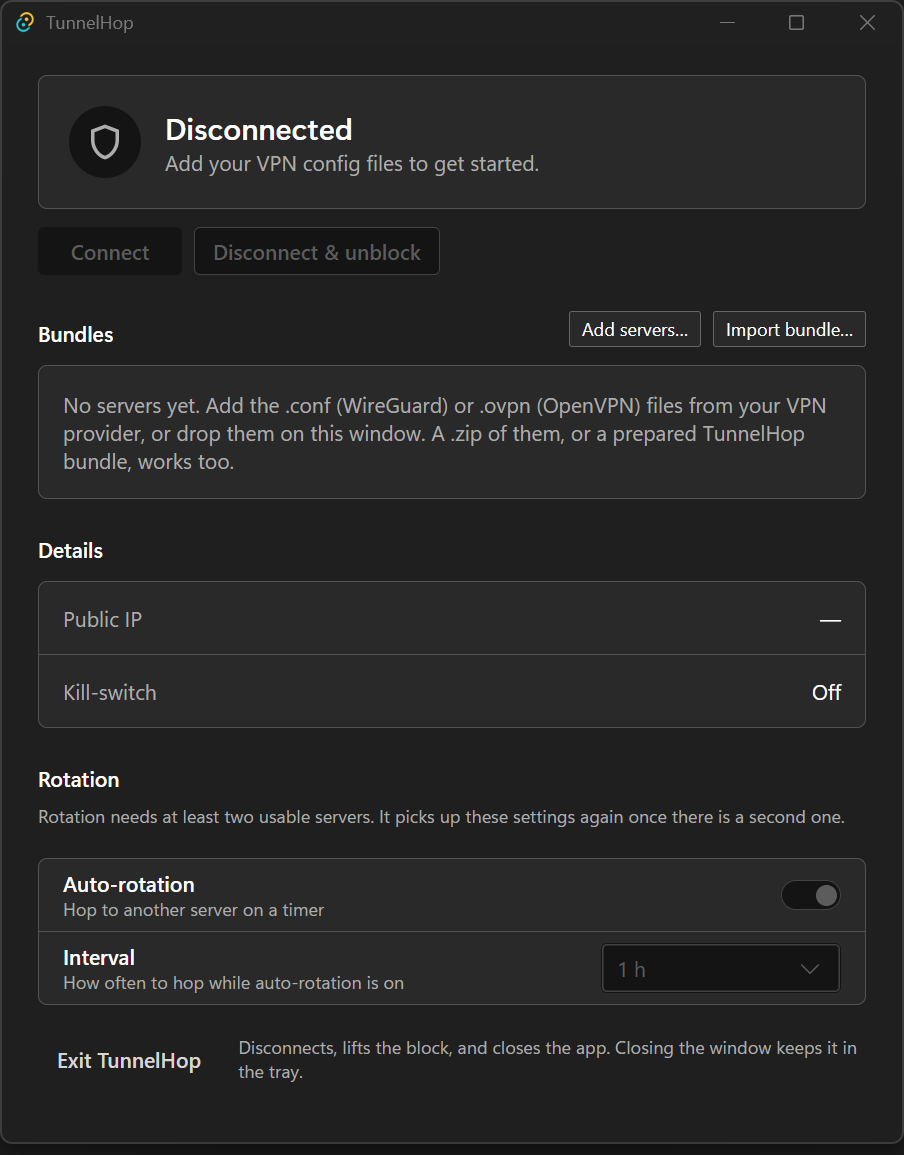
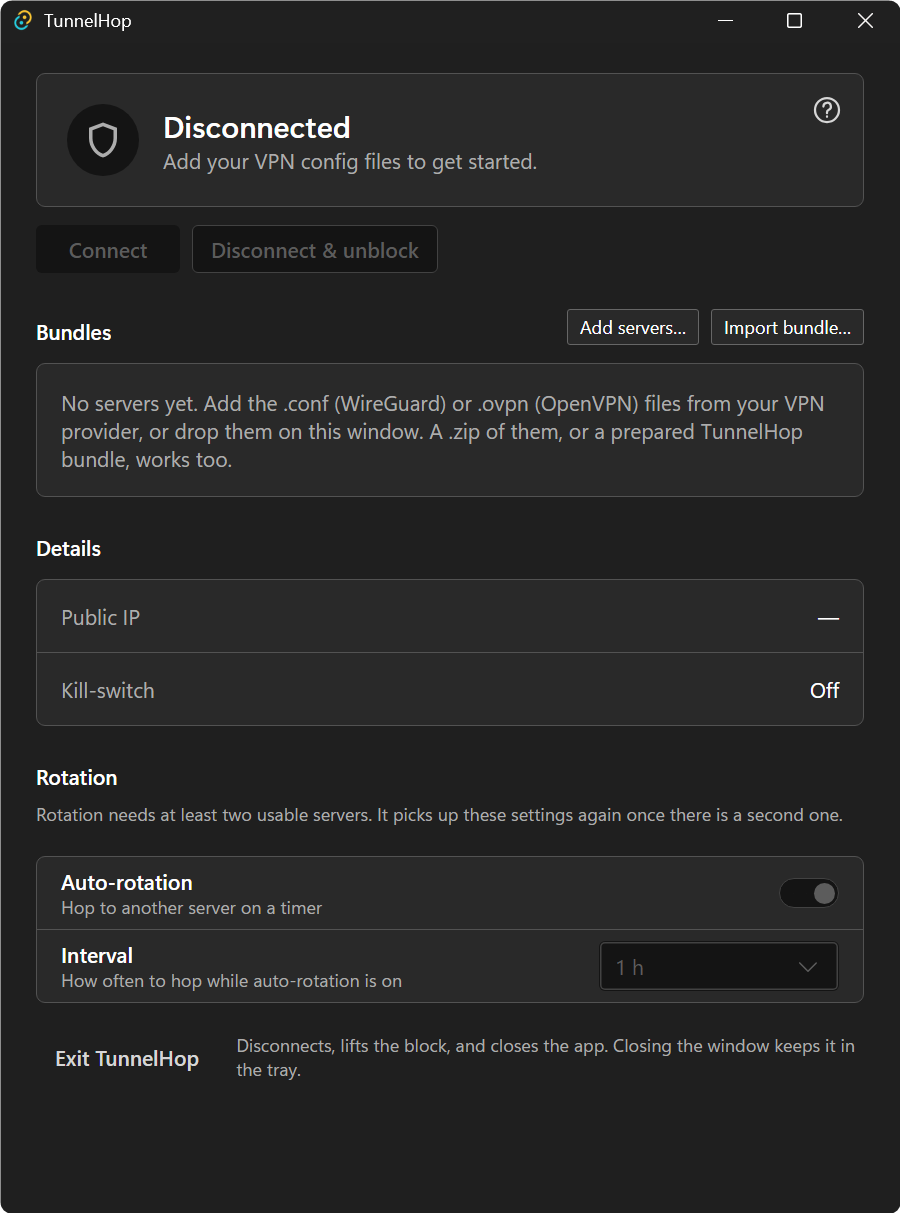
Retake the README screenshot with nothing but the window
The old crop had desktop showing on its sides. The new capture is from the
taller 0.9.0 window, in English and the dark theme at 150%. It drops the
window's 1-pixel translucent border, which lets the desktop show through,
and makes the rounded corners transparent. The README shows it at half its
pixel width, 450.

diff --git a/README.md b/README.md
@@ -10,7 +10,7 @@ switches between them on a schedule, and blocks all traffic while it switches, s
 leaves the PC outside the tunnel.
 
 <p align="center">
-  <img src="docs/images/window.png" width="452"
+  <img src="docs/images/window.png" width="450"
        alt="The TunnelHop window before any servers are added: the connection status, Add servers and Import bundle, the public IP and kill-switch state, and the rotation settings">
 </p>
 
